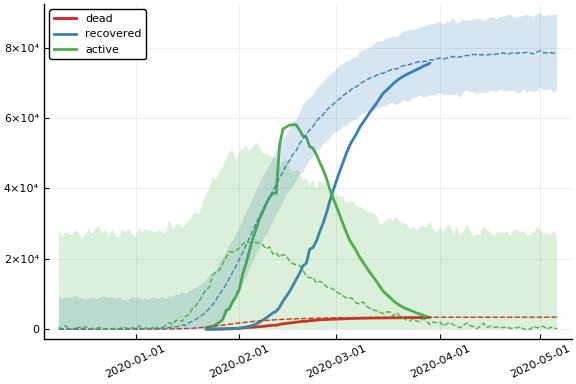
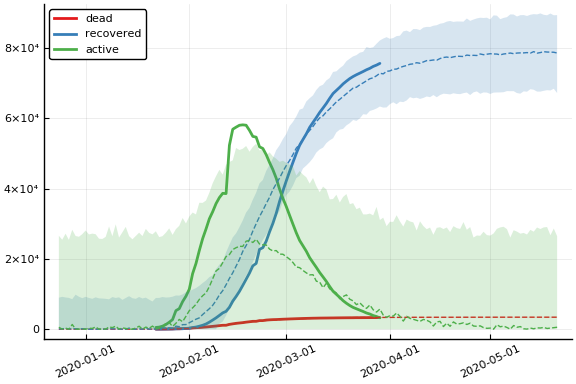
Deployed 2faefc0 with MkDocs version: 1.1

diff --git a/china/index.html b/china/index.html
@@ -147,11 +147,7 @@
 4.0 International
 License</a></p>
 <pre><code class="julia">using CovidSEIR,  Plots, DataFrames, JLD2, StatsPlots
-</code></pre>
-
-<pre><code>Error: importing CovidSEIR into Main conflicts with an existing identifier
-</code></pre>
-<pre><code class="julia">Plots.pyplot()
+Plots.pyplot()
 jmddir = normpath(joinpath(dirname(Base.find_package(&quot;CovidSEIR&quot;)),&quot;..&quot;,&quot;docs&quot;,&quot;jmd&quot;))
 covdf = covidjhudata()
 describe(covdf)
@@ -180,28 +176,27 @@ n…  │
     │
 │ 8   │ recovered │ 168.91    │ 0           │ 0.0       │ 62570      │     
     │
-│ 9   │ iso2c     │           │ AD          │           │ ZW         │ 170 
+│ 9   │ iso2c     │           │ AD          │           │ ZW         │ 171 
     │
-│ 10  │ cpop      │ 2.27709e8 │ 33785.0     │ 2.49924e7 │ 1.39273e9  │     
+│ 10  │ cpop      │ 2.2813e8  │ 33785.0     │ 2.49924e7 │ 1.39273e9  │     
     │
 │ 11  │ ppop      │ 2.74801e7 │ 41078       │ 1.557e7   │ 111690000  │     
     │
 </code></pre>
 <h1 id="china">China<a class="headerlink" href="#china" title="Permanent link">&para;</a></h1>
 <pre><code class="julia">using Dates
-dayt0 = Dates.Date(&quot;2020-01-22&quot;) - Dates.Day(45)
-china = CountryData(covdf, &quot;China&quot;, 45)
+dayt0 = Dates.Date(&quot;2020-01-22&quot;) - Dates.Day(30)
+china = CountryData(covdf, &quot;China&quot;, 30)
 </code></pre>
 
-<pre><code>CountryData{Float64,Int64}(1.39273e9, [45, 46, 47, 48, 49, 50, 51, 52, 53, 
-54  …  103, 104, 105, 106, 107, 108, 109, 110, 111, 112], [17.0, 18.0, 26.0
-, 42.0, 56.0, 82.0, 131.0, 133.0, 171.0, 213.0  …  3253.0, 3259.0, 3274.0, 
-3274.0, 3281.0, 3285.0, 3291.0, 3296.0, 3299.0, 3304.0], [28.0, 30.0, 36.0,
- 39.0, 49.0, 58.0, 101.0, 120.0, 135.0, 214.0  …  71266.0, 71857.0, 72362.0
-, 72814.0, 73280.0, 73773.0, 74181.0, 74720.0, 75100.0, 75582.0], [503.0, 5
-95.0, 858.0, 1325.0, 1970.0, 2737.0, 5277.0, 5834.0, 7835.0, 9375.0  …  673
-1.0, 6189.0, 5799.0, 5410.0, 5030.0, 4603.0, 4310.0, 3881.0, 3600.0, 3236.0
-])
+<pre><code>CountryData{Float64,Int64}(1.39273e9, [30, 31, 32, 33, 34, 35, 36, 37, 38, 
+39  …  88, 89, 90, 91, 92, 93, 94, 95, 96, 97], [17.0, 18.0, 26.0, 42.0, 56
+.0, 82.0, 131.0, 133.0, 171.0, 213.0  …  3253.0, 3259.0, 3274.0, 3274.0, 32
+81.0, 3285.0, 3291.0, 3296.0, 3299.0, 3304.0], [28.0, 30.0, 36.0, 39.0, 49.
+0, 58.0, 101.0, 120.0, 135.0, 214.0  …  71266.0, 71857.0, 72362.0, 72814.0,
+ 73280.0, 73773.0, 74181.0, 74720.0, 75100.0, 75582.0], [503.0, 595.0, 858.
+0, 1325.0, 1970.0, 2737.0, 5277.0, 5834.0, 7835.0, 9375.0  …  6731.0, 6189.
+0, 5799.0, 5410.0, 5030.0, 4603.0, 4310.0, 3881.0, 3600.0, 3236.0])
 </code></pre>
 <pre><code class="julia">using Turing
 mdl = countrymodel(china)

diff --git a/index.html b/index.html
@@ -236,5 +236,5 @@
 
 <!--
 MkDocs version : 1.1
-Build Date UTC : 2020-03-30 01:47:28
+Build Date UTC : 2020-03-30 01:59:29
 -->
